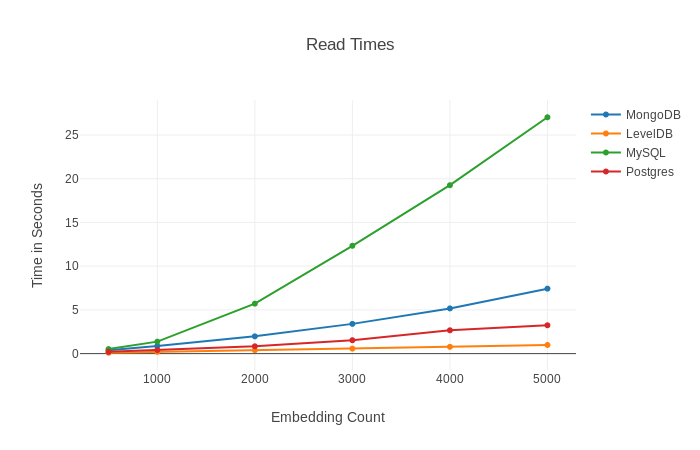
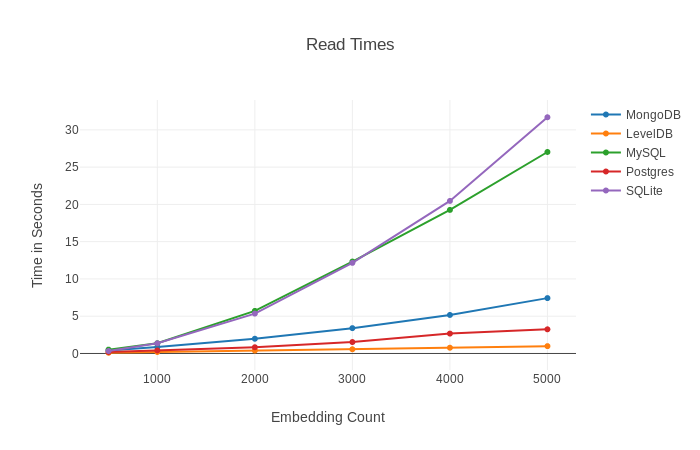
Add database size and sqlite to results

diff --git a/README.md b/README.md
@@ -18,6 +18,8 @@ This is, because incorporating these models into a productive applicate can be a
 
 ![Write Times](writetimes.png?raw=true "Write Times")
 
+![DB Sizes](dbsizes.png?raw=true "DB Sizes")
+
 ## Setup
 
 ``` bash
